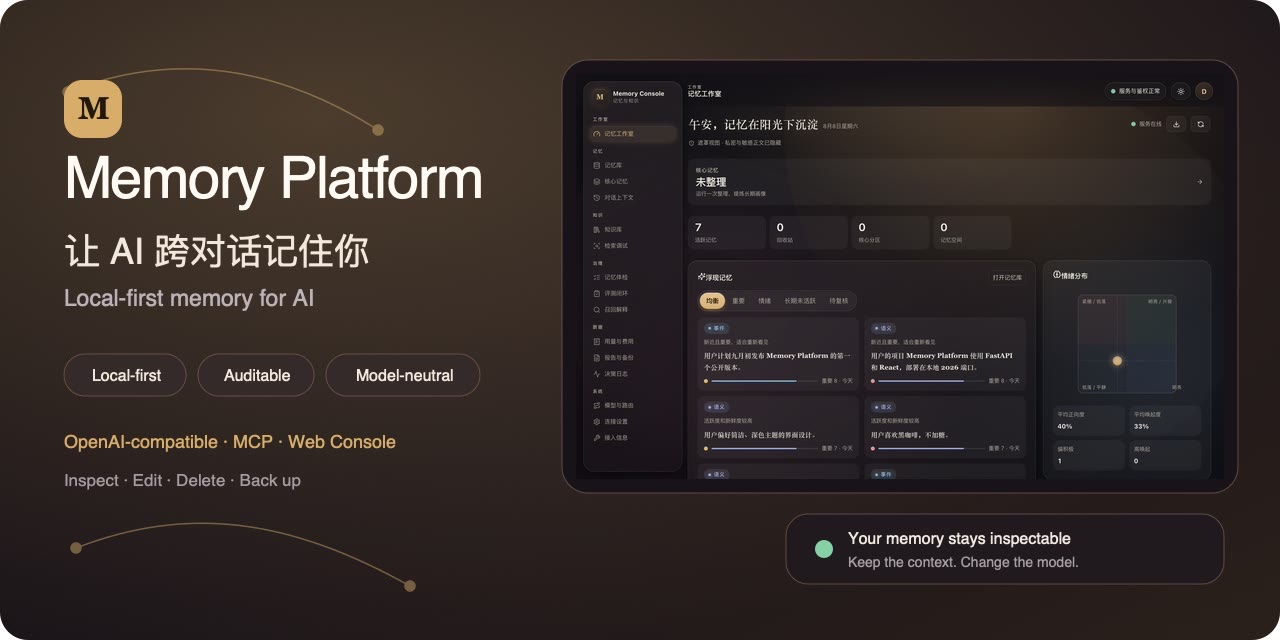
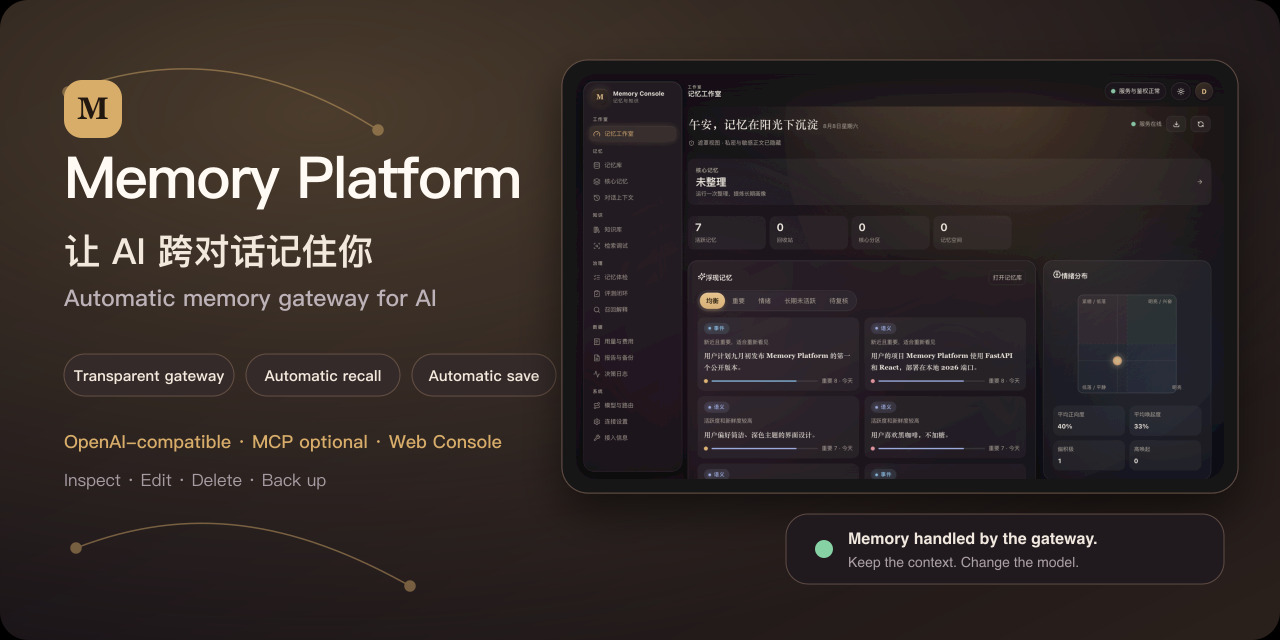
docs: emphasize automatic memory gateway

diff --git a/README.en.md b/README.en.md
@@ -2,10 +2,12 @@
 
 # 🧠 Memory Platform
 
-**Give your AI memory across conversations.**
+**Add an automatic, local memory gateway to the AI client you already use.**
 
-Memory stays on your own device, where you can inspect, edit, delete, and back it up.<br>
-Works with OpenAI Chat Completions and MCP without locking memory to one model or client.
+For ordinary chat, connect to the OpenAI-compatible `/v1` endpoint: Memory Platform recalls relevant memory, injects context, and extracts durable information after a complete answer.<br>
+**No MCP setup and no extra “remember this” prompt are required.** MCP remains available for explicit memory organization and knowledge retrieval.
+
+Memory stays on your own device, where you can inspect, edit, delete, and back it up. Providers, routes, and failover are managed server-side.
 
 [![Release](https://img.shields.io/github/v/release/SparkHello/Memory_Platform)](https://github.com/SparkHello/Memory_Platform/releases)
 [![CI](https://github.com/SparkHello/Memory_Platform/actions/workflows/ci.yml/badge.svg)](https://github.com/SparkHello/Memory_Platform/actions/workflows/ci.yml)
@@ -13,22 +15,23 @@ Works with OpenAI Chat Completions and MCP without locking memory to one model o
 
 [中文](README.md) · **[English](README.en.md)**
 
-[🚀 Get started](#-quick-start) · [🧭 Why Memory Platform](#-why-memory-platform) · [🔌 Connect a client](#-connecting-clients) · [📚 Docs](#-documentation)
+[🔀 How it works](#-two-gateway-layers-automatic-ordinary-chat) · [🧭 Why Memory Platform](#-why-memory-platform) · [🚀 Get started](#-quick-start) · [🔌 Connect a client](#-connecting-clients) · [📚 Docs](#-documentation)
 
 </div>
 
-![Memory Platform brand banner: local-first AI memory with a real view of the local Web Console](docs/images/memory-platform-hero.jpg)
+![Memory Platform automatic memory gateway banner with a real view of the local Web Console](docs/images/memory-platform-hero.jpg)
 
-<p align="center"><sub>Local-first · Auditable · Model-neutral · All product screens use demo data, never real user content</sub></p>
+<p align="center"><sub>Automatic memory gateway · Local-first · Auditable · Model-neutral · All product screens use demo data, never real user content</sub></p>
 
 ## ✨ The one-minute version
 
 | What you may want to know first | Short answer |
 | --- | --- |
-| **What does it do?** | It sits between a chat client and a model, recalls relevant memory when needed, and saves durable information after a complete answer. |
-| **Who is it for?** | People using Chatbox, RikkaHub, FLIT, another OpenAI-compatible client, or MCP who want durable preferences and project context. |
+| **What does it do?** | It is an automatic memory gateway between a chat client and a model: it recalls and injects relevant memory, then extracts durable information after a complete answer. |
+| **Who is it for?** | People using Chatbox, RikkaHub, FLIT, or another OpenAI-compatible client who want durable preferences and project context. |
 | **Where is the data?** | Memory, knowledge documents, and runtime configuration remain local; Docker stores them in the `memory-platform-data` volume. |
-| **Must I change clients?** | No. Keep using the OpenAI-compatible `/v1` endpoint, or add `/mcp` for explicit memory and knowledge tools. |
+| **Must I change clients?** | No. Point your current client's Base URL at Memory Platform's OpenAI-compatible `/v1` endpoint. |
+| **Do I need MCP or a memory prompt?** | Not for ordinary chat. The gateway handles recall and saving automatically; `/mcp` is only for explicit memory organization and knowledge retrieval. |
 | **Does it lock me to a model?** | No. Clients use `memory-auto`; provider and model changes stay on the server. |
 | **What is the fastest path?** | Start Docker → configure a model in the browser → enter a Base URL, API key, and model name in your client. |
 
@@ -37,9 +40,16 @@ Memory Platform is not a new chat client and does not include a model. Embedding
 > [!IMPORTANT]
 > **Local-first does not mean no network traffic.** Memory, knowledge documents, and configuration stay on your device by default. If you choose a cloud model provider, the current message you send and the context permitted for that turn are sent to that provider for inference. The default deployment targets a personal machine or trusted home network; do not expose it unauthenticated to the public internet.
 
+## 🔀 Two gateway layers, automatic ordinary chat
+
+![Two-gateway flow: an existing client connects through the OpenAI-compatible Memory Gateway for automatic recall and saving, then Model Gateway handles model routing and failover; MCP is optional](docs/images/gateway-flow.en.svg)
+
+Clients connect only to Memory Gateway. For ordinary `/v1` requests, the gateway automatically recalls memory, injects context, and extracts durable information after the answer; it does not depend on the model remembering to call a tool. Model Gateway selects providers, models, and fallback order by stable purpose. Add `/mcp` only when the model should explicitly search or organize memory or retrieve knowledge.
+
 ## 🧭 Why Memory Platform
 
-- **Keep your current chat entry point:** OpenAI-compatible requests get automatic recall and saving, while MCP lets a model search and organize explicitly.
+- **Gateway-managed memory instead of waiting for tool calls:** ordinary OpenAI-compatible chat gets automatic recall, injection, and saving; neither MCP nor an extra memory prompt is a prerequisite.
+- **Keep your current chat entry point:** change only the Base URL, API key, and model name, then continue using the client you already know.
 - **Governance before “remember more”:** every memory keeps its source and status, explains why it was recalled, and can be edited, archived, restored, or permanently deleted.
 - **Memory and knowledge stay physically separate:** personal facts and preferences live in `memory.db`; imported long-form documents live in `knowledge.db` and never enter memory decay or automatic chat context.
 - **Model choices stay server-side:** Model Gateway selects providers, models, and fallback order by stable purpose, so clients and memory data do not migrate with a vendor change.
@@ -51,7 +61,7 @@ These projects solve different layers of the problem. Start with the one closest
 | Add a general-purpose memory SDK, server API, or managed platform to an application | [Mem0](https://github.com/mem0ai/mem0) |
 | Build a temporal context graph centered on entities, fact validity, and historical queries | [Zep / Graphiti](https://github.com/getzep/graphiti) |
 | Build a stateful agent runtime in which the agent manages its own memory, state, and tools | [Letta](https://github.com/letta-ai/letta) |
-| Keep an existing OpenAI-compatible client while adding local deployment, auditable governance, isolated knowledge, and unified model routing | **Memory Platform** |
+| Keep an existing OpenAI-compatible client while adding gateway-managed automatic memory, local deployment, auditable governance, isolated knowledge, and unified model routing | **Memory Platform** |
 
 This is not a performance ranking. Memory Platform currently targets personal machines and trusted home networks; it does not try to replace a managed memory platform, a full temporal knowledge graph, or an agent runtime.
 
@@ -111,9 +121,11 @@ Model:    memory-auto
 
 After one complete message, open `http://127.0.0.1:2026/ui/` to check whether a memory was created. When you later change providers or models, only the server configuration changes; the client keeps using `memory-auto`.
 
+Ordinary chat does not require MCP or a system prompt telling the model when to save memory. In the default `read-write` mode, Memory Gateway handles relevant-memory recall, context injection, and post-answer extraction automatically.
+
 On a phone, `localhost` and `127.0.0.1` point to the phone itself. LAN or Tailscale devices must use the address of the computer running Memory Platform. Field locations, verification, and troubleshooting are covered in the [client setup guide](docs/client-setup.md) (Chinese).
 
-### MCP: let the model use memory and knowledge explicitly
+### Optional MCP: let the model use memory and knowledge explicitly
 
 Clients that support Streamable HTTP MCP can connect to:
 
@@ -121,7 +133,7 @@ Clients that support Streamable HTTP MCP can connect to:
 http://127.0.0.1:2026/mcp
 ```
 
-Authenticate with the same `GATEWAY_API_KEY`. MCP is useful when the model should explicitly search, save, or organize memory and retrieve documents you deliberately imported. For ordinary chat, the OpenAI-compatible endpoint above is enough.
+Authenticate with the same `GATEWAY_API_KEY`. MCP is useful when the model should explicitly search, save, or organize memory and retrieve documents you deliberately imported. It is an enhancement, not a prerequisite for automatic memory. For ordinary chat, the OpenAI-compatible endpoint above is enough.
 
 | What you want to do | Entry point | Who decides when to use memory |
 | --- | --- | --- |
@@ -146,6 +158,8 @@ The knowledge base never enters chat context automatically. It requires an expli
 
 The system waits for a complete answer, checks the original wording, subject, negation, and sensitivity, and only then decides whether to save. Truncated, filtered, or unfinished tool-call responses do not create memory.
 
+You do not need to append “remember this” to each message. The system conservatively extracts durable information only from content the user actually expressed.
+
 ### Search and govern the whole memory library
 
 ![Memory Platform memory library for searching, filtering, and governing long-term memory](docs/images/console-memories.png)
@@ -154,8 +168,8 @@ The system waits for a complete answer, checks the original wording, subject, ne
 
 ## 🧰 Core capabilities
 
+- **Automatic memory gateway with optional MCP:** ordinary `/v1` chat gets automatic recall, injection, and saving, with streaming, tool-call, multimodal-part, and reasoning-field compatibility plus `off` / `read` / `read-write` modes and conversation branches.
 - **Long-term memory and governance:** verifiable source text, lifecycles, timelines, topic links, recall explanations, edit, merge, soft delete, restore, permanent deletion, and export.
-- **Automatic memory proxy and MCP:** streaming, tool calls, multimodal message parts, reasoning-field compatibility, `off` / `read` / `read-write` modes, and conversation branches.
 - **Isolated knowledge base:** text, Markdown, PDF, DOCX, and EPUB with full-text/vector hybrid retrieval, immutable document versions, and exact passage citations.
 - **Models, failover, and usage:** purpose-based model selection and fallback, with channel, model, token, latency, and price snapshots but no prompts, replies, tool arguments, or knowledge content in usage logs.
 - **Safe fallback:** embedding space or dimension mismatches fall back to keyword retrieval; sensitive content is excluded from remote extraction, embeddings, AI review, and the knowledge agent by default.
